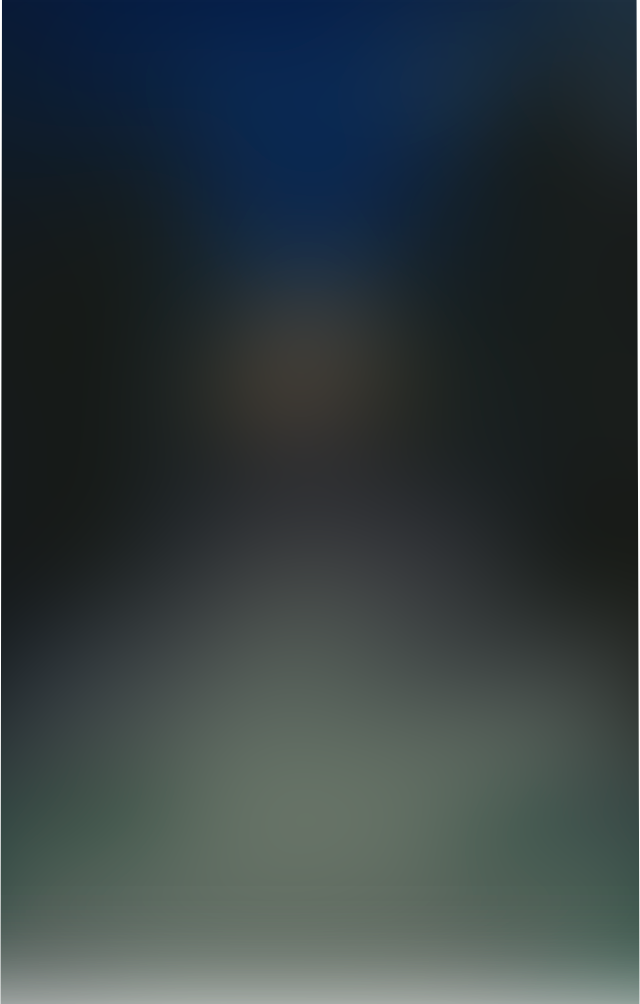
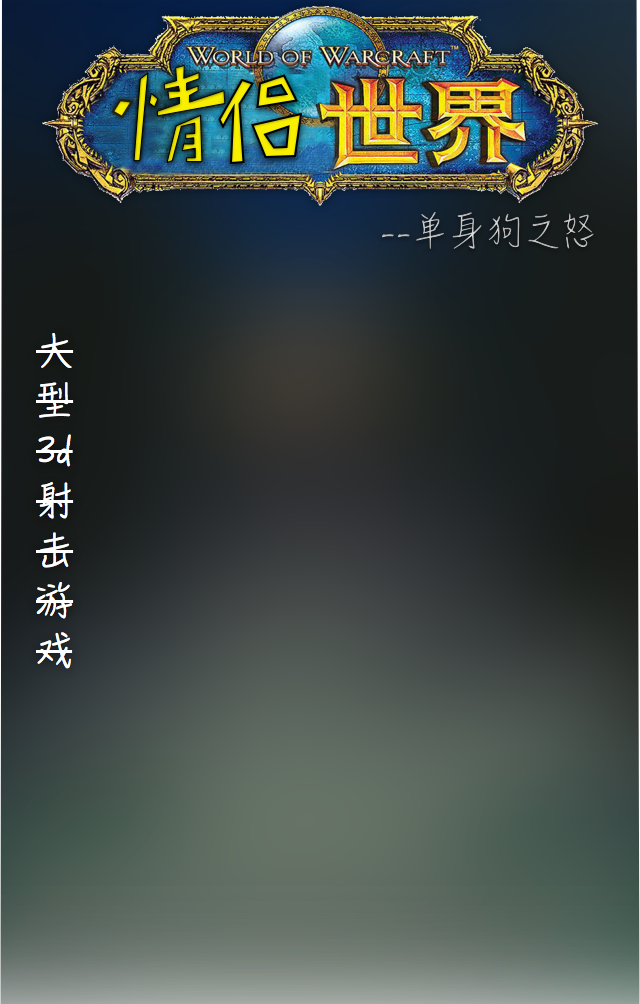
加入非常炫酷的开始界面

Changed region(s): [[0.0625, 0.0, 0.9375, 0.247], [0.0625, 0.3396, 0.125, 0.6793], [0.8438, 0.2161, 0.9375, 0.247]]

diff --git a/public/js/sprites/startTorch.js b/public/js/sprites/startTorch.js
@@ -9,11 +9,11 @@ var sprite = require('./sprite');
 var torch = sprite.getMc({
     maxFrame: 4,
     preFix: 'fire',
-    'position.set': [430,700],
+    'position.set': [440,520],
     'anchor.set': [0,1],
     'animationSpeed': 0.5,
-    'scale.x': 0.5,
-    'scale.y': 0.5
+    'scale.x': 0.4,
+    'scale.y': 0.4
 });
 
 module.exports = torch;

diff --git a/public/js/startStage.js b/public/js/startStage.js
@@ -24,7 +24,7 @@ stage.init = function(start) {
     torch.play();
     var startButton = sprite.getIm({
         img: R.startButton,
-        'position.set':[20,0]
+        'position.set':[20,700]
     });
     startButton.interactive = true;
     startButton.on('touchstart', function () {

diff --git a/public/js/sprites/fffStart.js b/public/js/sprites/fffStart.js
@@ -7,7 +7,7 @@ var sprite = require('./sprite');
 var fffStart = sprite.getMc({
     maxFrame: 2,
     preFix: 'fff_start',
-    'position.set': [320, 1000],
+    'position.set': [320, 800],
     'anchor.set': [0.5,1],
     'animationSpeed': 0.05,
     'scale.x': 1,
